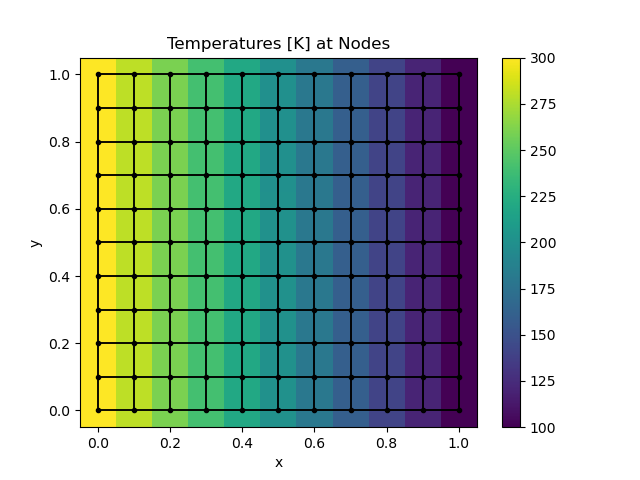
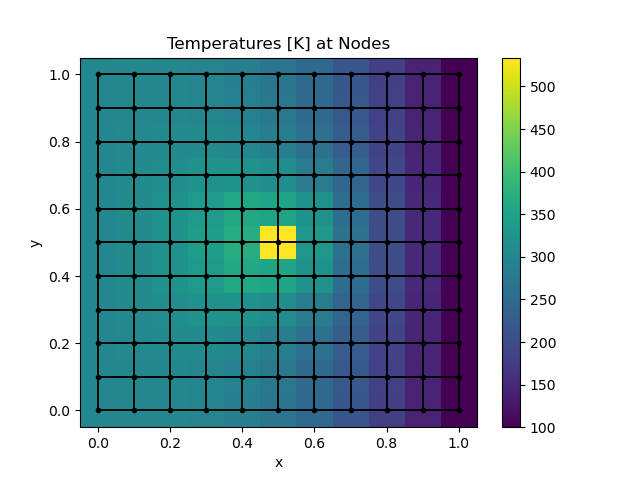
wspolrzedne point heat source

diff --git a/functions.py b/functions.py
@@ -64,10 +64,10 @@ def get_input_variables_from_file(file_path: str = 'input.json'):
     bc_left = input_variables['bc_left']
     bc_right = input_variables['bc_right']
     xy_plot = input_variables['xy_plot']
-    node = input_variables['node']
+    point = input_variables['point']
     heat_value = input_variables['heat_value']
 
-    return n, m, len_x, len_y, h_x, h_y, t_left, t_right, t_top, t_bottom, x, k1, k2, q_right, q_left, q_bottom, q_top, bc_top, bc_bottom, bc_left, bc_right, xy_plot, node, heat_value
+    return n, m, len_x, len_y, h_x, h_y, t_left, t_right, t_top, t_bottom, x, k1, k2, q_right, q_left, q_bottom, q_top, bc_top, bc_bottom, bc_left, bc_right, xy_plot, point, heat_value
 
 def get_local_matrix(h_x, h_y, k):
     """
@@ -342,9 +342,9 @@ def plot_temp_color_map(temperatures, x_coords, y_coords, len_x, len_y):
     plt.show()
 
 
-n, m, len_x, len_y, h_x, h_y, t_left, t_right, t_top, t_bottom, x, k1, k2, q_right, q_left, q_bottom, q_top, bc_top, bc_bottom, bc_left, bc_right, xy_plot, node, heat_value = get_input_variables_from_file()
+n, m, len_x, len_y, h_x, h_y, t_left, t_right, t_top, t_bottom, x, k1, k2, q_right, q_left, q_bottom, q_top, bc_top, bc_bottom, bc_left, bc_right, xy_plot, point, heat_value = get_input_variables_from_file()
 
-def apply_bc(n, m, len_x, len_y, h_x, h_y, t_left, t_right, t_top, t_bottom, x, k1, k2, q_right, q_left, q_bottom, q_top, bc_top, bc_bottom, bc_left, bc_right, node, heat_value):
+def bc_and_heat_source(n, m, len_x, len_y, h_x, h_y, t_left, t_right, t_top, t_bottom, x, k1, k2, q_right, q_left, q_bottom, q_top, bc_top, bc_bottom, bc_left, bc_right, point, heat_value):
     """
     Function to first gather the input variables from input.json,
     then apply the boundary conditions, and finally solve for the temperatures.
@@ -389,19 +389,19 @@ def apply_bc(n, m, len_x, len_y, h_x, h_y, t_left, t_right, t_top, t_bottom, x, 
     elif bc_right == 'Neumann':
         load_vector = neumann_right(load_vector, n, m, h_y, q_right, num_nodes_y=num_nodes_y, num_nodes_x=num_nodes_x)
 
-    
     x_coords, y_coords = get_node_coords(n, m, len_x, len_y)
     
-    count = 1
-    for i,j in zip(x_coords, y_coords):
-        for x,y in zip(i, j):
-            count += 1
+    node_positions = np.array([(x, y) for x_row, y_row in zip(x_coords, y_coords) for x, y in zip(x_row, y_row)])
+    node_count = len(node_positions)
 
-    if node is not None:
-        if node <= count:
-            load_vector[node-1] += heat_value
-        elif node > count:
-            print('Node out of range. It will not be taken into account.')
+    if point is not None:
+        if 0 <= point[0] <= len_x and 0 <= point[1] <= len_y:
+            distances = np.linalg.norm(node_positions - np.array(point), axis=1)
+            nearest_node = np.argmin(distances) + 1
+
+            load_vector[nearest_node - 1] += heat_value
+        else:
+            print('Point is out of material range. It will not be taken into account.')
 
     temperatures = solve_for_temperatures(global_matrix, load_vector)
 
@@ -509,8 +509,8 @@ def interpolate_temperature_along_line(temperatures, x_coords, y_coords, line='h
 
         for j in range(num_points + 1):
             xi = j / num_points
-            N1 = 1 - xi  # Shape function for the first node
-            N2 = xi      # Shape function for the second node
+            N1 = 1 - xi  
+            N2 = xi      
             interpolated_temp = N1 * temp_start + N2 * temp_end
             interpolated_pos = N1 * x_start + N2 * x_end
 
@@ -533,7 +533,7 @@ def interpolate_temperature_along_line(temperatures, x_coords, y_coords, line='h
     plt.show()
 
 
-global_matrix, load_vector, temperatures, x_coords, y_coords, num_nodes_x, num_nodes_y, total_nodes = apply_bc(n, m, len_x, len_y, h_x, h_y, t_left, t_right, t_top, t_bottom, x, k1, k2, q_right, q_left, q_bottom, q_top, bc_top, bc_bottom, bc_left, bc_right, node, heat_value)
+global_matrix, load_vector, temperatures, x_coords, y_coords, num_nodes_x, num_nodes_y, total_nodes = bc_and_heat_source(n, m, len_x, len_y, h_x, h_y, t_left, t_right, t_top, t_bottom, x, k1, k2, q_right, q_left, q_bottom, q_top, bc_top, bc_bottom, bc_left, bc_right, point, heat_value)
 # print(load_vector)
 # print(global_matrix)
 # print(temperatures)
